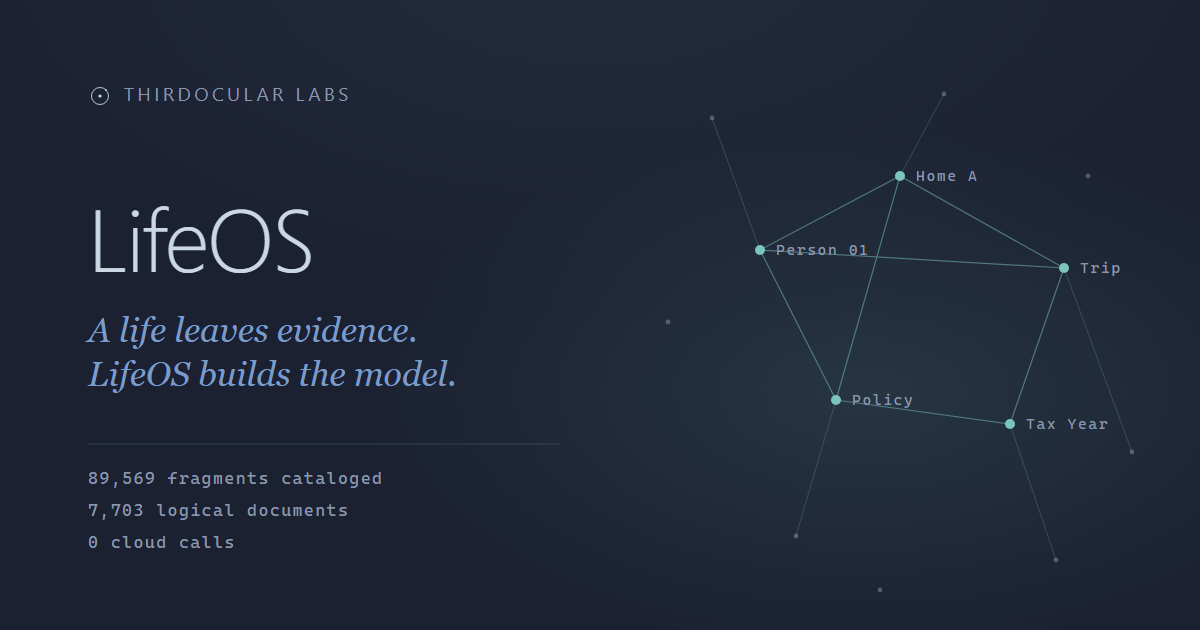
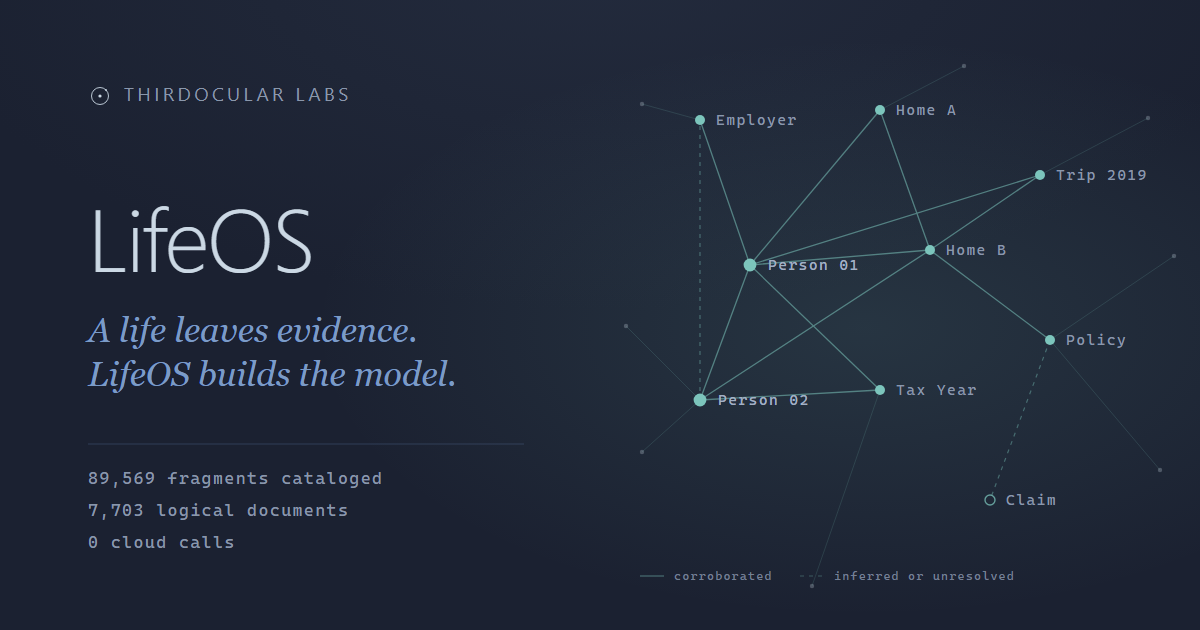
Enrich the life-model graph from five entities to nine
The graph now says something instead of decorating. Two people joined and
sharing a tax year and a trip is a household; two homes joined to each other
is a move; a policy hanging off the second home is property, insured.

It also carries the trust model in its line weights. Solid edges are
corroborated. Dashed edges are inferred or still open, and the one unresolved
entity is drawn hollow: a claim against a policy with no outcome recorded. Both
the OG card and the hero caption carry a key, because a line weight that means
something has to say so.

Applied to all three surfaces so the page delivers what the card promises: the
OG card, the animated hero canvas, and the composed static state used under
prefers-reduced-motion.

Two legibility fixes came out of looking at it: fragments now tuck around every
arc EXCEPT the one where the label sits, and labels draw over a knockout tinted
to the stage ground, because a hairline crossing an 11px glyph is the
difference between reading a word and guessing it.

diff --git a/src/labs-lifeos.js b/src/labs-lifeos.js
@@ -32,29 +32,38 @@ const stateEl = document.getElementById('stage-state');
 if (stage && canvas && !reduced) {
   const ctx = canvas.getContext('2d', { alpha: true });
 
-  /* Five concepts, in normalized stage coordinates. Fully synthetic labels:
-     abstract entity names that match the visual language and carry no risk. */
+  /* Nine concepts, in normalized stage coordinates. Fully synthetic labels:
+     abstract entity names that match the visual language and carry no risk.
+     `big` marks the two people, who carry slightly more weight than the things
+     arranged around them. */
   const CONCEPTS = [
-    { x: 0.22, y: 0.36, label: 'Person 01' },
-    { x: 0.42, y: 0.24, label: 'Home A' },
-    { x: 0.71, y: 0.39, label: 'Trip 2019' },
-    { x: 0.81, y: 0.66, label: 'Tax Year' },
-    { x: 0.5, y: 0.75, label: 'Policy' },
+    { x: 0.26, y: 0.46, label: 'Person 01', big: true },
+    { x: 0.17, y: 0.76, label: 'Person 02', big: true },
+    { x: 0.15, y: 0.18, label: 'Employer' },
+    { x: 0.35, y: 0.13, label: 'Home A' },
+    { x: 0.53, y: 0.42, label: 'Home B' },
+    { x: 0.73, y: 0.17, label: 'Trip 2019' },
+    { x: 0.45, y: 0.78, label: 'Tax Year' },
+    { x: 0.75, y: 0.55, label: 'Policy' },
+    { x: 0.64, y: 0.86, label: 'Claim', hollow: true },
   ];
 
-  /* Which concepts are joined once the model resolves. */
+  /* The structure the fragments resolve into. It is not decoration: two people
+     joined and sharing a tax year and a trip is a household; two homes joined
+     to each other is a move; a policy on the second home is property, insured.
+     `soft: true` edges are inferred or unresolved and draw dashed, which is the
+     page's trust model expressed in line weight. */
   const EDGES = [
-    [0, 1],
-    [1, 2],
-    [2, 3],
+    [0, 1], [0, 2], [0, 3], [0, 4], [0, 5], [0, 6],
+    [1, 4], [1, 6],
     [3, 4],
-    [4, 0],
-    [1, 4],
-    [0, 2],
+    [4, 5], [4, 7],
+    [7, 8, true],
+    [1, 2, true],
   ];
 
   const GLYPHS = ['doc', 'photo', 'pin', 'mail', 'date', 'person'];
-  const COUNT = 34;
+  const COUNT = 36;
 
   /* A deterministic generator: the composition should be identical on every
      load and on every machine, so it can be judged as a design rather than
@@ -68,8 +77,12 @@ if (stage && canvas && !reduced) {
   const frags = [];
   for (let i = 0; i < COUNT; i++) {
     const concept = i % CONCEPTS.length;
-    const angle = rand() * Math.PI * 2;
-    const radius = 0.035 + rand() * 0.055;
+    /* Fragments tuck around their concept everywhere EXCEPT the arc where the
+       label sits, which is due right. Without this they land on top of the
+       text and "Home B" becomes unreadable at the exact moment the model
+       resolves, which is the one frame that has to be legible. */
+    const angle = 0.55 + rand() * (Math.PI * 2 - 1.1);
+    const radius = 0.04 + rand() * 0.055;
     frags.push({
       glyph: GLYPHS[Math.floor(rand() * GLYPHS.length)],
       /* where it drifts before it belongs to anything */
@@ -193,17 +206,23 @@ if (stage && canvas && !reduced) {
       ctx.stroke();
     }
 
-    /* structure: concept to concept, the last thing to appear */
+    /* structure: concept to concept, the last thing to appear. Corroborated
+       edges draw solid; inferred or unresolved ones draw dashed and dimmer. */
     const edgeAlpha = clamp01((p - 0.66) / 0.3) * 0.55;
     if (edgeAlpha > 0.002) {
-      ctx.strokeStyle = `rgba(124,197,188,${edgeAlpha})`;
-      ctx.lineWidth = 1;
-      ctx.beginPath();
-      for (const [a, b] of EDGES) {
-        ctx.moveTo(CONCEPTS[a].x * w, CONCEPTS[a].y * h);
-        ctx.lineTo(CONCEPTS[b].x * w, CONCEPTS[b].y * h);
+      for (const soft of [false, true]) {
+        ctx.strokeStyle = `rgba(124,197,188,${edgeAlpha * (soft ? 0.72 : 1)})`;
+        ctx.lineWidth = 1;
+        ctx.setLineDash(soft ? [4, 5] : []);
+        ctx.beginPath();
+        for (const [a, b, isSoft] of EDGES) {
+          if (Boolean(isSoft) !== soft) continue;
+          ctx.moveTo(CONCEPTS[a].x * w, CONCEPTS[a].y * h);
+          ctx.lineTo(CONCEPTS[b].x * w, CONCEPTS[b].y * h);
+        }
+        ctx.stroke();
       }
-      ctx.stroke();
+      ctx.setLineDash([]);
     }
 
     /* fragments */
@@ -223,19 +242,38 @@ if (stage && canvas && !reduced) {
       const cx = c.x * w;
       const cy = c.y * h;
       if (nodeAlpha > 0.002) {
-        ctx.fillStyle = `rgba(124,197,188,${nodeAlpha})`;
-        ctx.beginPath();
-        ctx.arc(cx, cy, 3.2, 0, Math.PI * 2);
-        ctx.fill();
+        const r = c.big ? 4.2 : 3.2;
+        /* The unresolved node stays hollow. It is the one entity on the stage
+           the model has not been able to close, and it should look like it. */
+        if (c.hollow) {
+          ctx.strokeStyle = `rgba(124,197,188,${nodeAlpha * 0.85})`;
+          ctx.lineWidth = 1.3;
+          ctx.beginPath();
+          ctx.arc(cx, cy, r, 0, Math.PI * 2);
+          ctx.stroke();
+          ctx.lineWidth = 1;
+        } else {
+          ctx.fillStyle = `rgba(124,197,188,${nodeAlpha})`;
+          ctx.beginPath();
+          ctx.arc(cx, cy, r, 0, Math.PI * 2);
+          ctx.fill();
+        }
         ctx.strokeStyle = `rgba(124,197,188,${nodeAlpha * 0.25})`;
         ctx.beginPath();
         ctx.arc(cx, cy, 9 + (1 - ep) * 6, 0, Math.PI * 2);
         ctx.stroke();
       }
       if (labelAlpha > 0.002) {
-        ctx.fillStyle = `rgba(203,216,228,${labelAlpha})`;
         ctx.font = '11px "Geist Mono", ui-monospace, monospace';
         ctx.textBaseline = 'middle';
+        /* A knockout behind the text. Edges and stray fragments still pass
+           behind labels even with the placement bias, and a hairline crossing
+           a 11px glyph is the difference between reading a word and guessing
+           it. Tinted to the stage ground so it never reads as a chip. */
+        const tw = ctx.measureText(c.label).width;
+        ctx.fillStyle = `rgba(23,29,44,${labelAlpha * 0.72})`;
+        ctx.fillRect(cx + 9, cy - 7, tw + 6, 14);
+        ctx.fillStyle = `rgba(203,216,228,${labelAlpha})`;
         ctx.fillText(c.label, cx + 12, cy + 1);
       }
     }

diff --git a/labs/lifeos/index.html b/labs/lifeos/index.html
@@ -152,33 +152,62 @@
               the finished frame the animation resolves to. The metaphor has to
               survive with the motion switched off.
             -->
-            <svg class="stage-static" viewBox="0 0 800 400" role="img" aria-label="Scattered fragments resolving into five labelled concepts connected by evidence trails">
-              <g stroke="rgba(124,197,188,0.35)" stroke-width="1" fill="none">
-                <path d="M170 150 L330 110 L560 160 L640 260 L400 300 Z" />
-                <path d="M330 110 L400 300" />
-                <path d="M170 150 L560 160" />
+            <svg class="stage-static" viewBox="0 0 800 400" role="img" aria-label="Scattered fragments resolving into nine labelled concepts joined by evidence trails, with one unresolved claim left hollow">
+              <g fill="rgba(203,216,228,0.3)">
+                <circle cx="96" cy="52" r="1.6" /><circle cx="700" cy="86" r="1.6" />
+                <circle cx="762" cy="212" r="1.6" /><circle cx="92" cy="300" r="1.6" />
+                <circle cx="470" cy="44" r="1.6" /><circle cx="770" cy="330" r="1.6" />
+                <circle cx="60" cy="188" r="1.6" /><circle cx="620" cy="380" r="1.6" />
               </g>
-              <g fill="rgba(203,216,228,0.35)">
-                <circle cx="96" cy="82" r="1.6" /><circle cx="238" cy="60" r="1.6" />
-                <circle cx="700" cy="96" r="1.6" /><circle cx="742" cy="212" r="1.6" />
-                <circle cx="120" cy="300" r="1.6" /><circle cx="262" cy="352" r="1.6" />
-                <circle cx="520" cy="52" r="1.6" /><circle cx="640" cy="344" r="1.6" />
+              <g stroke="rgba(124,197,188,0.16)" stroke-width="1" fill="none">
+                <path d="M96 52 L120 72" /><path d="M470 44 L280 52" />
+                <path d="M700 86 L584 68" /><path d="M60 188 L208 184" />
+                <path d="M92 300 L136 304" /><path d="M770 330 L600 220" />
+                <path d="M762 212 L600 220" /><path d="M620 380 L360 312" />
+              </g>
+              <g stroke="rgba(124,197,188,0.5)" stroke-width="1.2" fill="none">
+                <path d="M208 184 L136 304" /><path d="M208 184 L120 72" />
+                <path d="M208 184 L280 52" /><path d="M208 184 L424 168" />
+                <path d="M208 184 L584 68" /><path d="M208 184 L360 312" />
+                <path d="M136 304 L424 168" /><path d="M136 304 L360 312" />
+                <path d="M280 52 L424 168" /><path d="M424 168 L584 68" />
+                <path d="M424 168 L600 220" />
+              </g>
+              <g stroke="rgba(124,197,188,0.36)" stroke-width="1.1" fill="none" stroke-dasharray="4 5">
+                <path d="M600 220 L512 344" /><path d="M136 304 L120 72" />
               </g>
               <g fill="#7cc5bc">
-                <circle cx="170" cy="150" r="3.4" /><circle cx="330" cy="110" r="3.4" />
-                <circle cx="560" cy="160" r="3.4" /><circle cx="640" cy="260" r="3.4" />
-                <circle cx="400" cy="300" r="3.4" />
+                <circle cx="208" cy="184" r="4.2" /><circle cx="136" cy="304" r="4.2" />
+                <circle cx="120" cy="72" r="3.2" /><circle cx="280" cy="52" r="3.2" />
+                <circle cx="424" cy="168" r="3.2" /><circle cx="584" cy="68" r="3.2" />
+                <circle cx="360" cy="312" r="3.2" /><circle cx="600" cy="220" r="3.2" />
               </g>
-              <g fill="#cbd8e4" font-family="Geist Mono, monospace" font-size="11" letter-spacing="1.4">
-                <text x="182" y="154">Person 01</text>
-                <text x="342" y="114">Home A</text>
-                <text x="572" y="164">Trip 2019</text>
-                <text x="652" y="264">Tax Year</text>
-                <text x="412" y="304">Policy</text>
+              <circle cx="512" cy="344" r="3.4" fill="none" stroke="#7cc5bc" stroke-width="1.3" opacity="0.8" />
+              <g font-family="Geist Mono, monospace" font-size="11" letter-spacing="1.2">
+                <g fill="#cbd8e4">
+                  <text x="220" y="188">Person 01</text>
+                  <text x="148" y="308">Person 02</text>
+                </g>
+                <g fill="#8a97ab">
+                  <text x="132" y="76">Employer</text>
+                  <text x="292" y="56">Home A</text>
+                  <text x="436" y="172">Home B</text>
+                  <text x="596" y="72">Trip 2019</text>
+                  <text x="372" y="316">Tax Year</text>
+                  <text x="612" y="224">Policy</text>
+                  <text x="524" y="348">Claim</text>
+                </g>
               </g>
             </svg>
             <div class="stage-caption">
               <span>Fragments &#8594; Model &middot; synthetic entities</span>
+              <!-- The line weights carry meaning, so the caption says what they
+                   mean. Solid is corroborated evidence; dashed is inferred or
+                   still open, which is the trust model drawn rather than said. -->
+              <span class="key">
+                <i class="k-solid"></i>corroborated
+                <i class="k-dash"></i>inferred
+              </span>
               <span class="state" id="stage-state">drifting</span>
             </div>
           </div>

diff --git a/src/labs.css b/src/labs.css
@@ -349,6 +349,38 @@ h1.os-title em {
   color: var(--labs);
 }
 
+/* Key for the two edge weights in the hero graph. */
+.stage-caption .key {
+  display: inline-flex;
+  align-items: center;
+  gap: 0.4rem;
+}
+
+.stage-caption .key i {
+  display: inline-block;
+  width: 14px;
+  height: 0;
+  margin-left: 0.5rem;
+  border-top: 1px solid var(--labs-dim);
+}
+
+.stage-caption .key i:first-child {
+  margin-left: 0;
+}
+
+.stage-caption .key .k-dash {
+  border-top-style: dashed;
+}
+
+/* At narrow widths the caption is already carrying the state readout, and a
+   three-item row wraps into something that reads as broken. The key is the
+   least important of the three, so it is the one that goes. */
+@media (max-width: 700px) {
+  .stage-caption .key {
+    display: none;
+  }
+}
+
 /* The static composition the canvas is replaced by under reduced motion or
    without JavaScript. It is a real composed frame, not a blank box: the
    metaphor has to survive with the motion switched off. */
